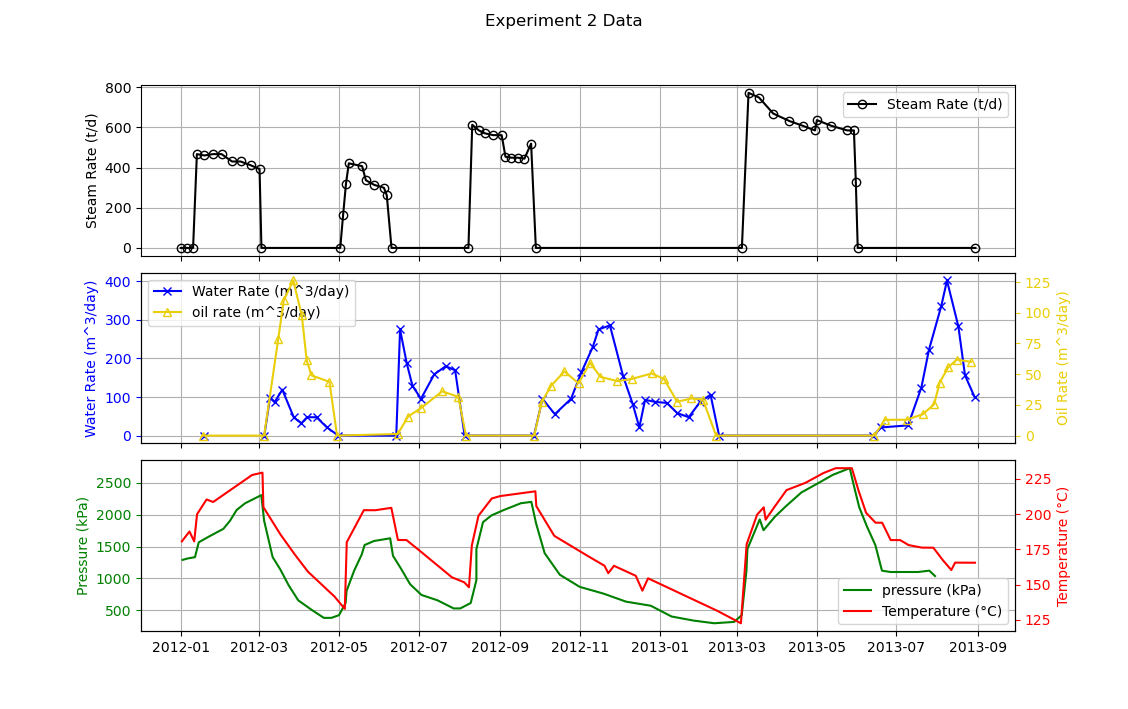
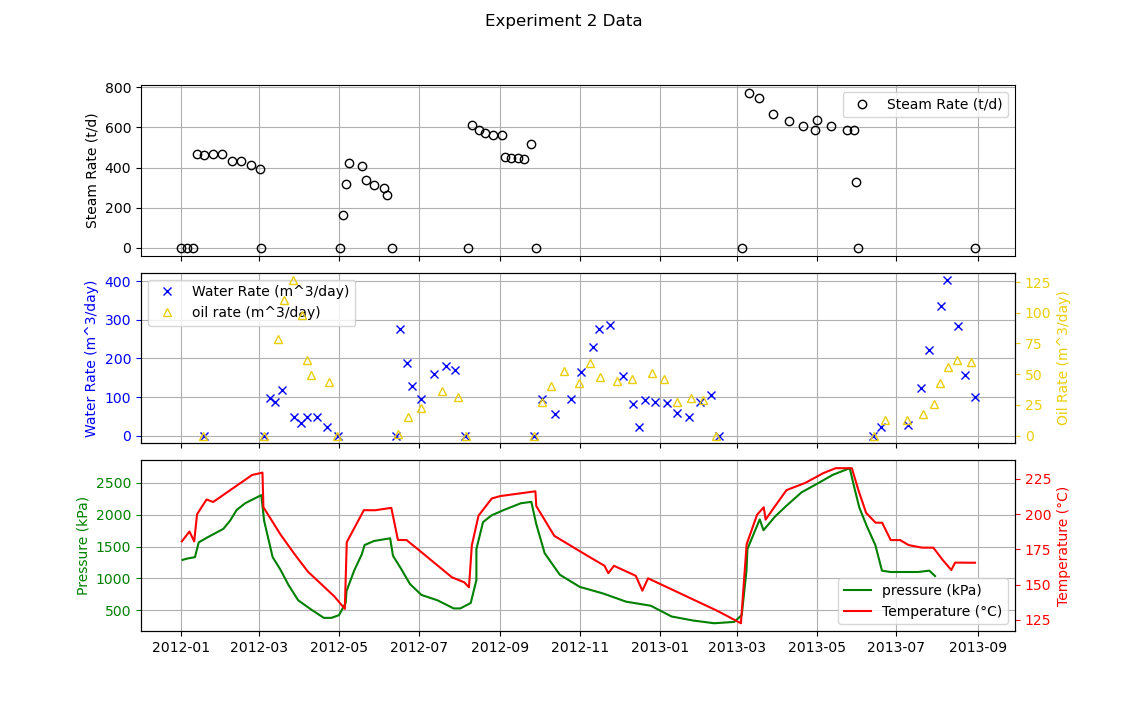
removed lines between discrete points on graph

diff --git a/Data_Visualisation.py b/Data_Visualisation.py
@@ -1,5 +1,4 @@
 import pandas as pd
-import numpy as np
 import os
 from matplotlib import pyplot as plt
 import datetime
@@ -58,20 +57,17 @@ g2 = f2.add_gridspec(3, hspace=0.1)
 ax2 = g2.subplots(sharex=True)
 f2.suptitle('Experiment 2 Data')
 
-ax2[0].plot(dfs2merged['date'], dfs2merged['steam rate (t/d)'], marker = 'o', linestyle = '-', color = steamCol ,fillstyle = 'none' ,label = 'Steam Rate (t/d)')
+ax2[0].plot(dfs2merged['date'], dfs2merged['steam rate (t/d)'], marker = 'o', linestyle = 'none', color = steamCol ,fillstyle = 'none' ,label = 'Steam Rate (t/d)')
 ax2[0].set_ylabel('Steam Rate (t/d)')
 ax2[0].legend()
 
-
-
-
-l2_1a = ax2[1].plot(dfs2merged['date'], dfs2merged['water rate (m^3/day)'], marker = 'x', linestyle = '-', color = waterCol, fillstyle = 'none', label = 'Water Rate (m^3/day)')
+l2_1a = ax2[1].plot(dfs2merged['date'], dfs2merged['water rate (m^3/day)'], marker = 'x', linestyle = 'none', color = waterCol, fillstyle = 'none', label = 'Water Rate (m^3/day)')
 ax2[1].set_ylabel("Water Rate (m^3/day)", color = waterCol)
 ax2[1].tick_params(axis='y', colors = waterCol)
 ax2[1].title.set_color(waterCol)
 
 ax2twin1 = ax2[1].twinx()
-l2_1b = ax2twin1.plot(dfs2merged['date'], dfs2merged['oil rate (m^3/day)'], marker = '^', linestyle = '-', color = oilCol, fillstyle = 'none',label = 'oil rate (m^3/day)')
+l2_1b = ax2twin1.plot(dfs2merged['date'], dfs2merged['oil rate (m^3/day)'], marker = '^', linestyle = 'none', color = oilCol, fillstyle = 'none',label = 'oil rate (m^3/day)')
 ax2twin1.set_ylabel("Oil Rate (m^3/day)", color = oilCol)
 ax2twin1.tick_params(axis='y', colors = oilCol)
 ax2twin1.title.set_color(oilCol)
@@ -98,25 +94,24 @@ ax2[2].legend(l2_2, lab2_2)
 [ax.grid() for ax in ax2] 
 
 
-
 # exp3 plots
 f3 = plt.figure()
 g3 = f3.add_gridspec(3, hspace=0.1)
 ax3 = g3.subplots(sharex=True)
 f3.suptitle('Experiment 3 Data')
 
-ax3[0].plot(dfs3merged['date'], dfs3merged['steam rate (t/d)'], marker = 'o', linestyle = '-', color = steamCol,fillstyle = 'none' ,label = 'Steam Rate (t/d)')
+ax3[0].plot(dfs3merged['date'], dfs3merged['steam rate (t/d)'], marker = 'o', linestyle = 'none', color = steamCol,fillstyle = 'none' ,label = 'Steam Rate (t/d)')
 ax3[0].set_ylabel('Steam Rate (t/d)')
 ax3[0].legend()
 
 
-l3_1a = ax3[1].plot(dfs3merged['date'], dfs3merged['water rate (m^3/d)'], marker = 'x', linestyle = '-', color = waterCol, fillstyle = 'none', label = 'Water Rate (m^3/day)')
+l3_1a = ax3[1].plot(dfs3merged['date'], dfs3merged['water rate (m^3/d)'], marker = 'x', linestyle = 'none', color = waterCol, fillstyle = 'none', label = 'Water Rate (m^3/day)')
 ax3[1].set_ylabel("Water Rate (m^3/day)", color = waterCol)
 ax3[1].tick_params(axis='y', colors = waterCol)
 ax3[1].title.set_color(waterCol)
 
 ax3twin1 = ax3[1].twinx()
-l3_1b = ax3twin1.plot(dfs3merged['date'], dfs3merged['oil rate (m^3/d)'], marker = '^', linestyle = '-', color = oilCol, fillstyle = 'none',label = 'oil rate (m^3/day)')
+l3_1b = ax3twin1.plot(dfs3merged['date'], dfs3merged['oil rate (m^3/d)'], marker = '^', linestyle = 'none', color = oilCol, fillstyle = 'none',label = 'oil rate (m^3/day)')
 ax3twin1.set_ylabel("Oil Rate (m^3/day)", color = oilCol)
 ax3twin1.tick_params(axis='y', colors = oilCol)
 ax3twin1.title.set_color(oilCol)
